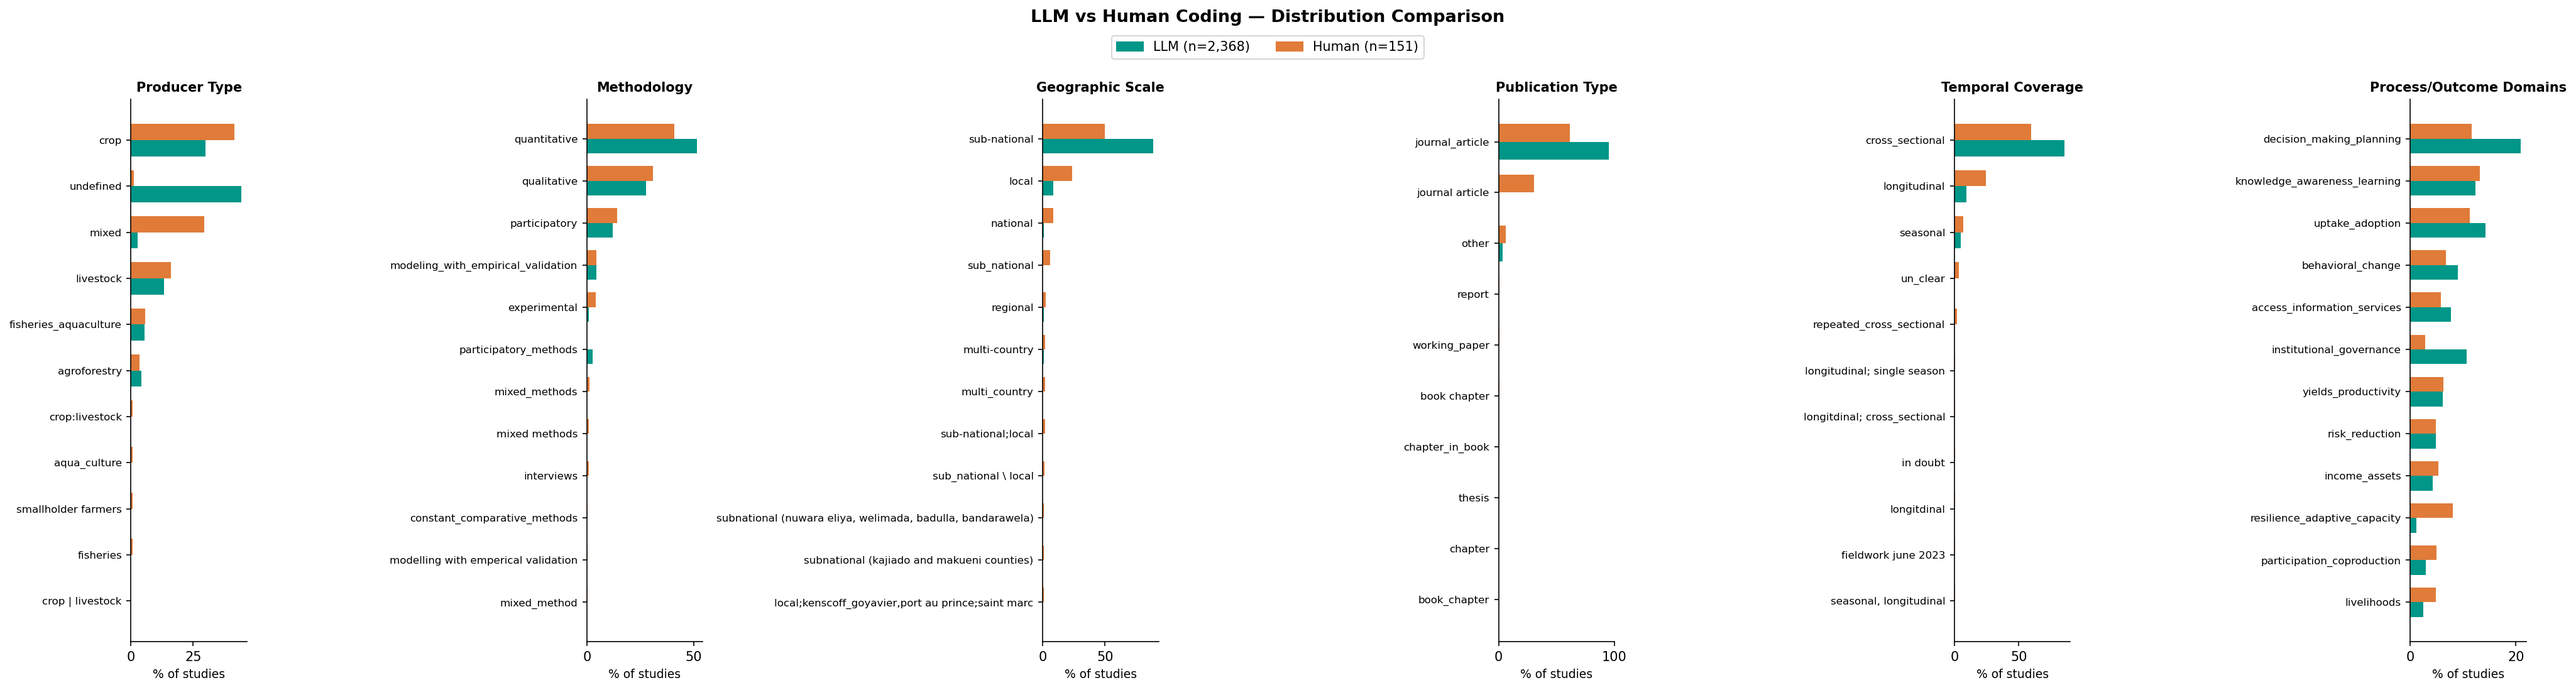
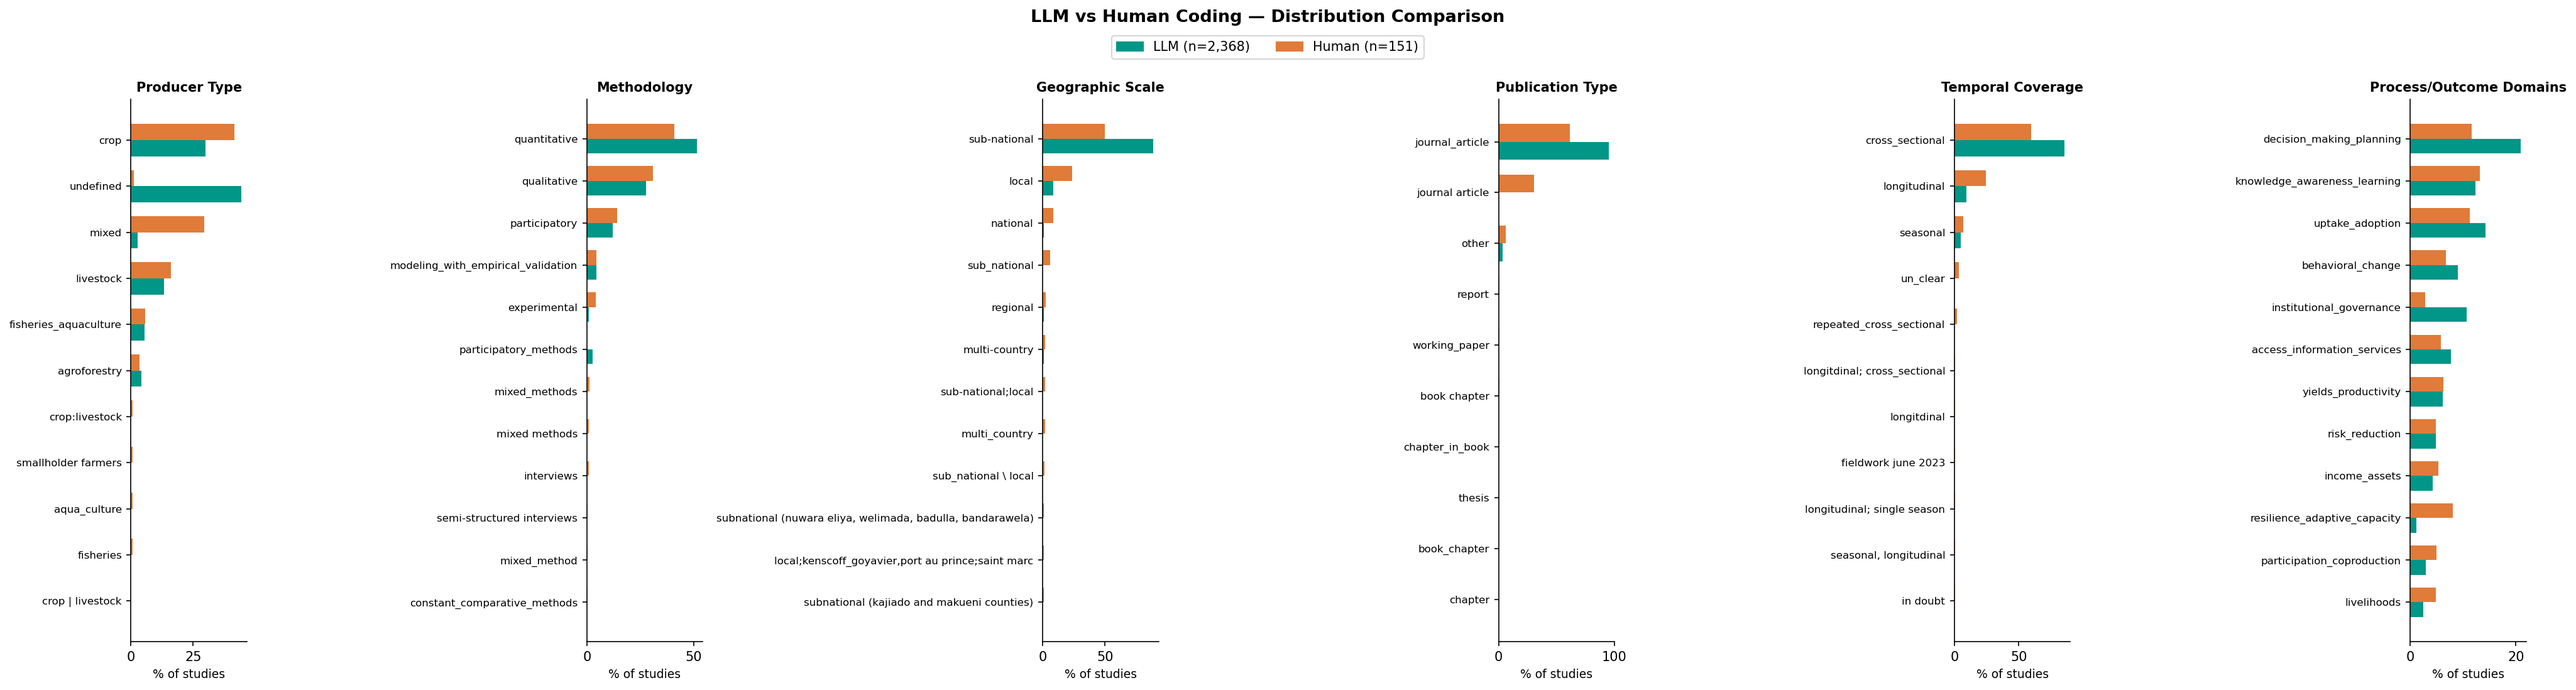
Add methodology_detail figure: methodology breakdown by process vs outcome domain
Three-facet Plotly figure (combined / process-only / outcome-only) alongside
the existing methodology.png, using the same quantitative/qualitative subtype
overlay style, with a legend explaining dark vs light shading.

diff --git a/scripts/step16_map_visualise.py b/scripts/step16_map_visualise.py
@@ -3006,6 +3006,156 @@ def _human_figures_all(human_df: pd.DataFrame, out_dir: Path) -> None:
             )
             _save_json_to(fig, target / "methodology.json")
 
+    # ── Methodology detail: combined vs process-domain vs outcome-domain ───────
+    col = "methodological_approach_value"
+    dom_col = "process_outcome_domains_value"
+    if col in h.columns and dom_col in h.columns:
+        from plotly.subplots import make_subplots
+
+        DETAIL_CATS = ["Quantitative", "Qualitative", "Modelling", "Mixed methods"]
+        LIGHT_BLUE, DARK_BLUE   = "#93c5fd", "#1d4ed8"
+        LIGHT_GREEN, DARK_GREEN = "#86efac", "#15803d"
+        DETAIL_ORANGE = "#f97316"
+        DETAIL_PURPLE = "#a855f7"
+        SUB_LABELS = {
+            "Quantitative":  "Exp./RCT",
+            "Qualitative":   "Participatory",
+            "Modelling":     "",
+            "Mixed methods": "",
+        }
+
+        def _methodology_raw_counts(sub: pd.DataFrame) -> Dict[str, int]:
+            merged: Dict[str, int] = {}
+            for raw in _split_h(sub[col]):
+                label = _method_label(raw)
+                merged[label] = merged.get(label, 0) + 1
+            return merged
+
+        def _parent_subtype(merged: Dict[str, int]):
+            parents = {c: merged.get(c, 0) for c in DETAIL_CATS}
+            subtypes = {
+                "Quantitative":  merged.get("Experimental / RCT (quantitative)", 0),
+                "Qualitative":   merged.get("Participatory (qualitative)",        0),
+                "Modelling":     0,
+                "Mixed methods": 0,
+            }
+            return parents, subtypes
+
+        is_process = h[dom_col].apply(lambda v: _process_outcome_label(v) == "process_only")
+        is_outcome = h[dom_col].apply(lambda v: _process_outcome_label(v) == "outcome_only")
+
+        combined_merged = _methodology_raw_counts(h)
+        process_merged  = _methodology_raw_counts(h[is_process])
+        outcome_merged  = _methodology_raw_counts(h[is_outcome])
+
+        n_combined = len(h)
+        n_process  = int(is_process.sum())
+        n_outcome  = int(is_outcome.sum())
+
+        if sum(combined_merged.values()) > 0:
+            fig = make_subplots(
+                rows=2, cols=2,
+                specs=[[{"colspan": 2}, None], [{}, {}]],
+                row_heights=[0.44, 0.56],
+                vertical_spacing=0.18,
+                horizontal_spacing=0.10,
+                subplot_titles=(
+                    f"Combined (n={n_combined:,})",
+                    f"Process domains only (n={n_process:,})",
+                    f"Outcome domains only (n={n_outcome:,})",
+                ),
+            )
+
+            def _add_detail_facet(merged: Dict[str, int], row: int, col_: int) -> None:
+                parents, subtypes = _parent_subtype(merged)
+                ys = DETAIL_CATS
+                parent_vals = [parents[y] for y in ys]
+                sub_vals    = [subtypes[y] for y in ys]
+                parent_colors = [LIGHT_BLUE, LIGHT_GREEN, DETAIL_ORANGE, DETAIL_PURPLE]
+                sub_colors    = [DARK_BLUE,  DARK_GREEN,  "rgba(0,0,0,0)", "rgba(0,0,0,0)"]
+
+                hover_parent = [
+                    f"<b>{y}</b><br>Total: {parents[y]} studies" +
+                    (f"<br>incl. {subtypes[y]} {SUB_LABELS[y]}" if subtypes[y] else "") +
+                    "<extra></extra>"
+                    for y in ys
+                ]
+                hover_sub = [
+                    (f"<b>{SUB_LABELS[y]}</b> (subset of {y})<br>{subtypes[y]} studies<extra></extra>"
+                     if subtypes[y] else "<extra></extra>")
+                    for y in ys
+                ]
+
+                fig.add_trace(go.Bar(
+                    x=parent_vals, y=ys, orientation="h",
+                    marker_color=parent_colors,
+                    hovertemplate=hover_parent,
+                    showlegend=False,
+                ), row=row, col=col_)
+                fig.add_trace(go.Bar(
+                    x=sub_vals, y=ys, orientation="h",
+                    marker_color=sub_colors,
+                    hovertemplate=hover_sub,
+                    showlegend=False,
+                ), row=row, col=col_)
+
+                # Total count only — which color is which category/subtype is explained
+                # once by the legend, not repeated as inline text on every bar.
+                facet_max = max(parent_vals) if any(parent_vals) else 1
+                offset = facet_max * 0.02
+                for y in ys:
+                    p = parents[y]
+                    if p == 0:
+                        continue
+                    fig.add_annotation(x=p + offset, y=y, text=str(p),
+                                       font=dict(size=9, color="#374151"), showarrow=False,
+                                       xanchor="left", yanchor="middle", row=row, col=col_)
+
+            _add_detail_facet(combined_merged, 1, 1)
+            _add_detail_facet(process_merged, 2, 1)
+            _add_detail_facet(outcome_merged, 2, 2)
+
+            # Legend swatches (invisible dummy points) — one entry per parent category
+            # and per subtype, shown once below the subtitle to explain dark vs light.
+            for name, color in [
+                ("Quantitative", LIGHT_BLUE),
+                ("of which Experimental / RCT", DARK_BLUE),
+                ("Qualitative", LIGHT_GREEN),
+                ("of which Participatory", DARK_GREEN),
+                ("Modelling", DETAIL_ORANGE),
+                ("Mixed methods", DETAIL_PURPLE),
+            ]:
+                fig.add_trace(go.Bar(
+                    x=[None], y=[None], marker_color=color, name=name, showlegend=True,
+                ), row=1, col=1)
+
+            fig.update_yaxes(autorange="reversed", row=1, col=1)
+            fig.update_yaxes(autorange="reversed", row=2, col=1)
+            fig.update_yaxes(autorange="reversed", row=2, col=2)
+            fig.update_xaxes(title_text="Number of Studies", row=1, col=1)
+            fig.update_xaxes(title_text="Number of Studies", row=2, col=1)
+            fig.update_xaxes(title_text="Number of Studies", row=2, col=2)
+
+            fig.update_layout(
+                barmode="overlay",
+                title=dict(
+                    text=f"<b>Methodological Approach — Process vs Outcome Domains</b><br>"
+                         f"<sup>Lower panels are mutually exclusive — dual-tagged studies excluded from both · "
+                         f"n={n_combined:,} studies total</sup>",
+                    x=0.5, xanchor="center", font=dict(size=14),
+                ),
+                legend=dict(
+                    orientation="h", x=0.5, xanchor="center", y=1.06, yanchor="bottom",
+                    font=dict(size=10), traceorder="normal",
+                ),
+                height=860,
+                plot_bgcolor="white",
+                paper_bgcolor="white",
+                font=dict(family="Lato, Arial, sans-serif", size=11, color=DKGREY),
+                margin=dict(l=150, r=40, t=190, b=60),
+            )
+            _save_json_to(fig, target / "methodology_detail.json")
+
     # ── Process/Outcome domains ───────────────────────────────────────────────
     col = "process_outcome_domains_value"
     if col in h.columns:

diff --git a/scripts/step16b_export_pngs.py b/scripts/step16b_export_pngs.py
@@ -39,6 +39,7 @@ DIMS: dict[str, tuple[int, int]] = {
     "geographic_map":    (1000, 520),
     "geographic_bar":    (900,  480),
     "methodology":       (900,  460),
+    "methodology_detail": (1000, 860),
     "temporal_trends":   (900,  460),
     "equity":            (900,  440),
     "domain_type":       (900,  440),
